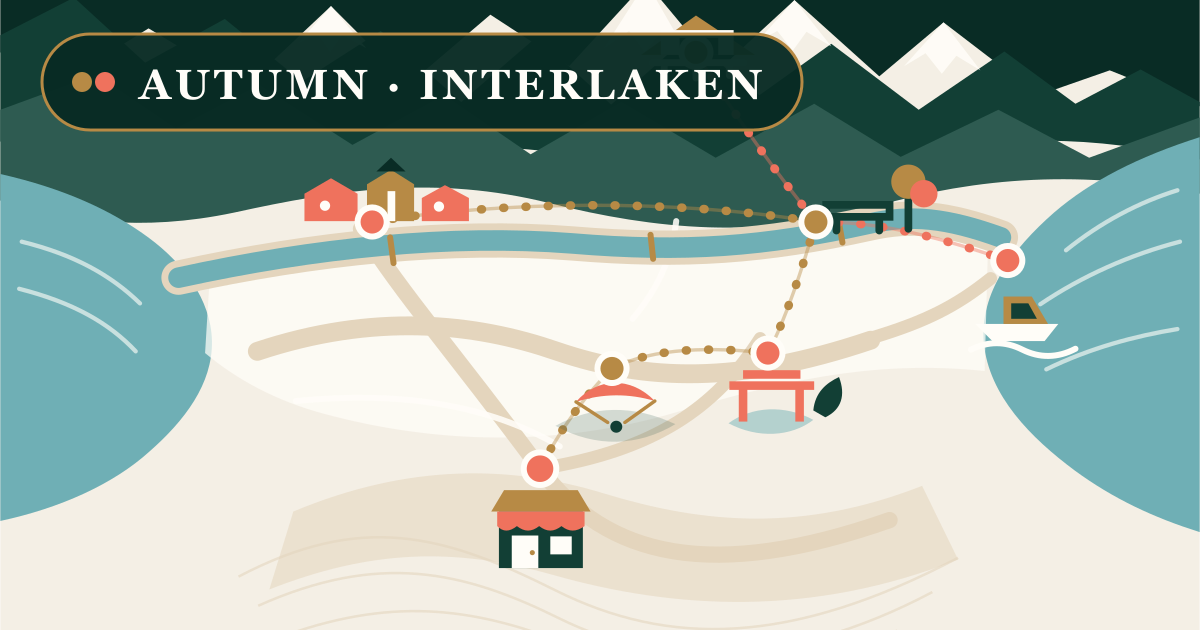
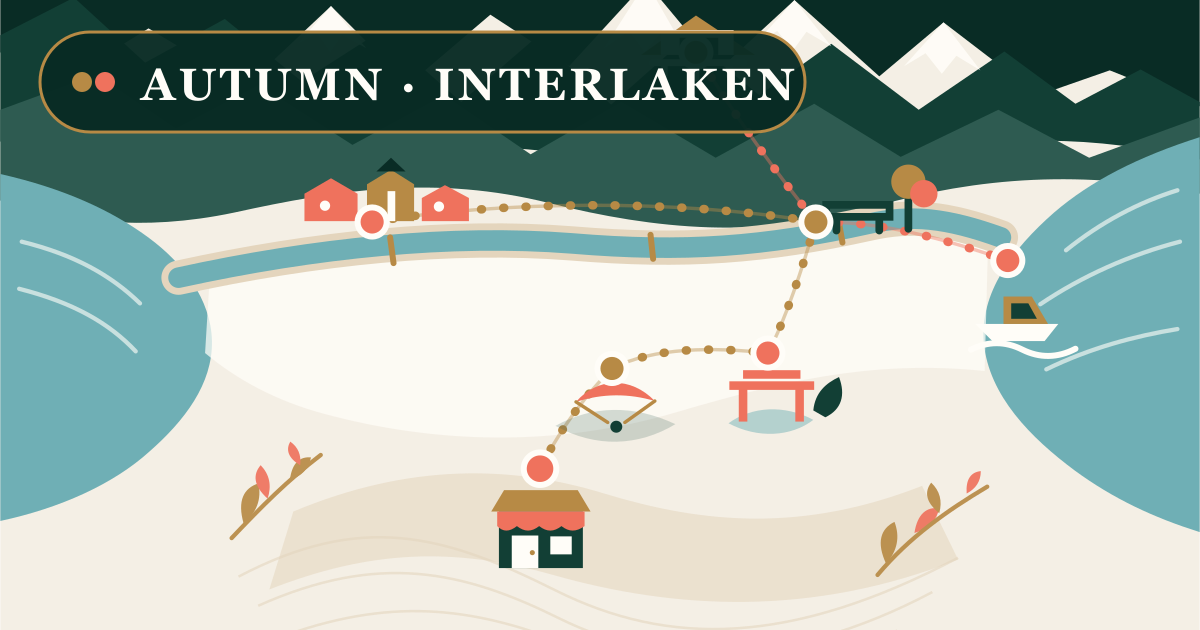
Fix autumn map visual contracts

diff --git a/articles/autumn-interlaken/article.css b/articles/autumn-interlaken/article.css
@@ -193,9 +193,10 @@ body[data-article-id="autumn-interlaken"] main a {
   z-index: 3;
   left: var(--x);
   top: var(--y);
-  display: inline-flex;
-  align-items: center;
-  gap: 8px;
+  width: 36px;
+  height: 36px;
+  display: grid;
+  place-items: center;
   transform: translate(-50%, -50%);
   color: var(--ink-deep);
   text-decoration: none;
@@ -220,6 +221,10 @@ body[data-article-id="autumn-interlaken"] main a {
 }
 
 .map-hotspot strong {
+  position: absolute;
+  left: calc(100% + 8px);
+  top: 50%;
+  transform: translateY(-50%);
   max-width: 132px;
   padding: 7px 10px;
   border: 1px solid rgba(18, 63, 53, 0.13);
@@ -638,12 +643,6 @@ body[data-article-id="autumn-interlaken"] main a {
     width: 100%;
   }
 
-  .map-section {
-    position: sticky;
-    top: 94px;
-    align-self: start;
-  }
-
   .map-section .section-heading {
     grid-template-columns: 1fr;
     gap: 18px;
@@ -668,6 +667,14 @@ body[data-article-id="autumn-interlaken"] main a {
 
   .destination-copy h2 {
     font-size: clamp(34px, 3.15vw, 49px);
+  }
+}
+
+@media (min-width: 1200px) and (min-height: 980px) {
+  .map-section {
+    position: sticky;
+    top: 94px;
+    align-self: start;
   }
 }
 
@@ -735,7 +742,7 @@ body[data-article-id="autumn-interlaken"] main a {
   .map-hotspot-origin strong {
     display: block;
     position: absolute;
-    left: 28px;
+    left: calc(100% + 4px);
   }
 
   .destinations {
@@ -846,7 +853,7 @@ body[data-article-id="autumn-interlaken"] main a {
   }
 
   .map-hotspot-origin strong {
-    left: 23px;
+    left: calc(100% + 3px);
     padding: 5px 7px;
     font-size: 8px;
   }
